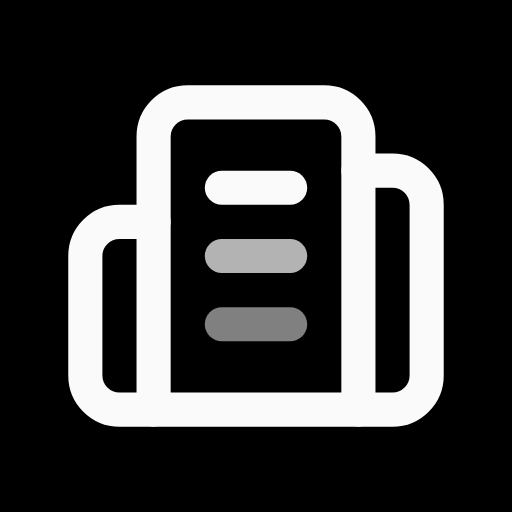
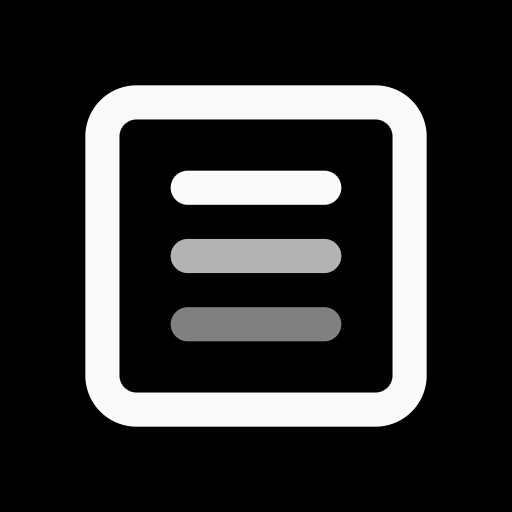
feat(brand): simplify the mark into a server chassis
Remove the two side building bars, reinterpret the central bay as a server enclosure, and keep three grayscale slot bars. Regenerate the avatar and social preview exports and refresh the cache-busted brand references.

Changed region(s): [[0.5625, 0.1562, 0.875, 0.8438], [0.125, 0.1562, 0.4375, 0.8438]]

diff --git a/web/src/components/Wordmark.tsx b/web/src/components/Wordmark.tsx
@@ -2,7 +2,7 @@ export function Wordmark() {
   return (
     <span className="wordmark" role="img" aria-label="DC-DB">
       <svg className="wordmark-symbol" viewBox="0 0 64 64" aria-hidden="true" focusable="false">
-        <use href="/brand/mark.svg?v=building-4#dc-db-symbol" />
+        <use href="/brand/mark.svg?v=server-1#dc-db-symbol" />
       </svg>
       <span className="wordmark-text" aria-hidden="true">DC-DB</span>
     </span>

diff --git a/web/index.html b/web/index.html
@@ -4,7 +4,7 @@
     <meta charset="UTF-8" />
     <meta name="viewport" content="width=device-width, initial-scale=1.0" />
     <meta name="theme-color" content="#ffffff" />
-    <link rel="icon" type="image/svg+xml" href="/logo.svg?v=dc-db-7" sizes="any" />
+    <link rel="icon" type="image/svg+xml" href="/logo.svg?v=dc-db-8" sizes="any" />
     <script>
       try {
         const saved = localStorage.getItem('dc-db-theme');

diff --git a/docs/brand.md b/docs/brand.md
@@ -1,6 +1,6 @@
 # DC-DB 品牌标识
 
-正式标志基于数据中心栏目已有的 Lucide `Building2` 图形；当前依赖中该名称是 [`building-complex`](https://lucide.dev/icons/building-complex) 的别名。保留原有建筑外轮廓、比例和线宽，只将门洞改为第三条水平线。中间三条横线等长、等距，以灰阶突出层次；建筑轮廓不作灰阶分区。该图形是 Lucide 的修改版，不作为项目原创图形声明；与大写 `DC-DB` 字标组成标识。
+正式标志基于数据中心栏目已有的 Lucide `Building2` 图形；当前依赖中该名称是 [`building-complex`](https://lucide.dev/icons/building-complex) 的别名。保留中央体块和线宽，移除两侧建筑条形，把中央体块解释为服务器机箱；机箱内三条横线等长、等距，以黑、灰、浅灰（暗色主题为白、浅灰、灰）表示服务器插槽和层级。该图形是 Lucide 的修改版，不作为项目原创图形声明；与大写 `DC-DB` 字标组成标识。
 
 ## 文件与用途
 
@@ -10,11 +10,11 @@
 | --- | --- |
 | [`mark.svg`](../web/public/brand/mark.svg) | 随系统主题切换黑白实底和外框的图形母版；包含可复用的 `dc-db-symbol` |
 | [`mark-mono.svg`](../web/public/brand/mark-mono.svg) | 透明背景单色图形，适用于印刷和单色用途 |
-| [`logo-light.svg`](../web/public/brand/logo-light.svg) | 整幅白底、黑色建筑轮廓与字标、三条灰阶横线，用于浅色主题 |
-| [`logo-dark.svg`](../web/public/brand/logo-dark.svg) | 整幅黑底、白色建筑轮廓与字标、三条灰阶横线，用于暗色主题 |
-| [`avatar.svg`](../web/public/brand/avatar.svg) | 纯黑底（`#000000`）、白色建筑轮廓与三条灰阶横线的头像源文件 |
+| [`logo-light.svg`](../web/public/brand/logo-light.svg) | 整幅白底、黑色服务器轮廓与字标、三条灰阶横线，用于浅色主题 |
+| [`logo-dark.svg`](../web/public/brand/logo-dark.svg) | 整幅黑底、白色服务器轮廓与字标、三条灰阶横线，用于暗色主题 |
+| [`avatar.svg`](../web/public/brand/avatar.svg) | 纯黑底（`#000000`）、白色服务器轮廓与三条灰阶横线的头像源文件 |
 | [`avatar-512.png`](../web/public/brand/avatar-512.png) | 512×512 PNG，可用于 GitHub 头像上传 |
-| [`social-preview.svg`](../web/public/brand/social-preview.svg) | 纯黑底、白色建筑轮廓与字标、三条灰阶横线的仓库分享预览源文件 |
+| [`social-preview.svg`](../web/public/brand/social-preview.svg) | 纯黑底、白色服务器轮廓与字标、三条灰阶横线的仓库分享预览源文件 |
 | [`social-preview.png`](../web/public/brand/social-preview.png) | 1280×640 PNG，可用于 GitHub 仓库 Social preview |
 
 SVG 是可缩放、可编辑的主版本。PNG 是针对上传场景的导出文件：GitHub 的[头像格式说明](https://docs.github.com/en/account-and-profile/reference/profile-reference)列出 PNG、JPG 和 GIF；[仓库分享预览](https://docs.github.com/en/repositories/managing-your-repositorys-settings-and-features/customizing-your-repository/customizing-your-repositorys-social-media-preview)推荐 1280×640，且文件小于 1 MB。PNG 素材已经按这些尺寸导出；头像属于账号或组织，仓库分享预览则在仓库设置中配置。
@@ -22,7 +22,7 @@ SVG 是可缩放、可编辑的主版本。PNG 是针对上传场景的导出文
 ## 系统与文档使用
 
 - 登录页和左侧栏通过 `Wordmark.tsx` 组合图形和字标，图形从 `mark.svg#dc-db-symbol` 引用，保持单一几何来源；文字提供可访问名称，装饰图形对读屏隐藏。系统引用的图形由 `styles.css` 中的 `--brand-mark-bg`、`--brand-mark-mid`、`--brand-mark-soft` 三个变量跟随用户选择的主题，外框和顶部横线使用 `currentColor`。
-- 图形母版画布为 64×64，原 Lucide 的 24×24 坐标统一缩放 `64/24`；缩放前的 `stroke-width="2"`、圆头和圆角连接保持不变。中间横线分别位于 `y=8/12/16`，均从 `x=10` 延伸至 `x=14`。
+- 图形母版画布为 64×64，原 Lucide 的 24×24 坐标统一缩放 `64/24`；缩放前的 `stroke-width="2"`、圆头和圆角连接保持不变。服务器机箱使用 `x=3`、`y=3`、`width=18`、`height=18`、`rx=2` 的圆角矩形；三条横线分别位于 `y=8/12/16`，均从 `x=8` 延伸至 `x=16`。
 - 品牌只使用中性色，灰阶差异仅用于中间三条横线。浅色主题为白底、黑色外框，三条横线由上到下为 `currentColor`、`#808080`、`#b3b3b3`；暗色主题为黑底、白色外框，横线依次为 `currentColor`、`#b3b3b3`、`#808080`。独立 SVG 的外框和字标使用深色 `#171717` 或白色 `#fafafa`；系统中跟随 `--text`，当前分别为 `#0a0a0a` 和 `#fafafa`。
 - 主版背景使用黑／白实底，不再透明。直接打开 `mark.svg` 或 favicon `logo.svg` 时，通过 `prefers-color-scheme` 跟随系统主题；组合标使用各自固定的整幅白底或黑底，头像和分享素材固定使用纯黑底。`mark-mono.svg` 保留透明背景，轮廓与三条横线全部使用 `currentColor`，适用于纯单色印刷。
 - GitHub README 使用 `picture` 在浅底和深底组合标之间切换，不依赖外部字体。独立 SVG 的字标已转为路径。
@@ -30,6 +30,6 @@ SVG 是可缩放、可编辑的主版本。PNG 是针对上传场景的导出文
 
 ## 来源与许可
 
-Lucide 图形采用 ISC 许可，版权与许可声明保留在 [`LICENSE-Lucide.txt`](../web/public/brand/LICENSE-Lucide.txt) 及 SVG 注释中，说明见 [Lucide 官方许可](https://lucide.dev/license)。修改门洞不改变原图形的许可要求，分发时保留对应声明。声明不会显示在 Logo 画面中。
+Lucide 图形采用 ISC 许可，版权与许可声明保留在 [`LICENSE-Lucide.txt`](../web/public/brand/LICENSE-Lucide.txt) 及 SVG 注释中，说明见 [Lucide 官方许可](https://lucide.dev/license)。将建筑中央体块改为服务器并移除两侧建筑条形，不改变原图形的许可要求，分发时保留对应声明。声明不会显示在 Logo 画面中。
 
 字标使用项目已有的 Geist（650）；独立 SVG 中的 `DC-DB` 已转为路径，不依赖外部字体。字体许可见 [`OFL-Geist.txt`](../web/public/brand/OFL-Geist.txt)。
